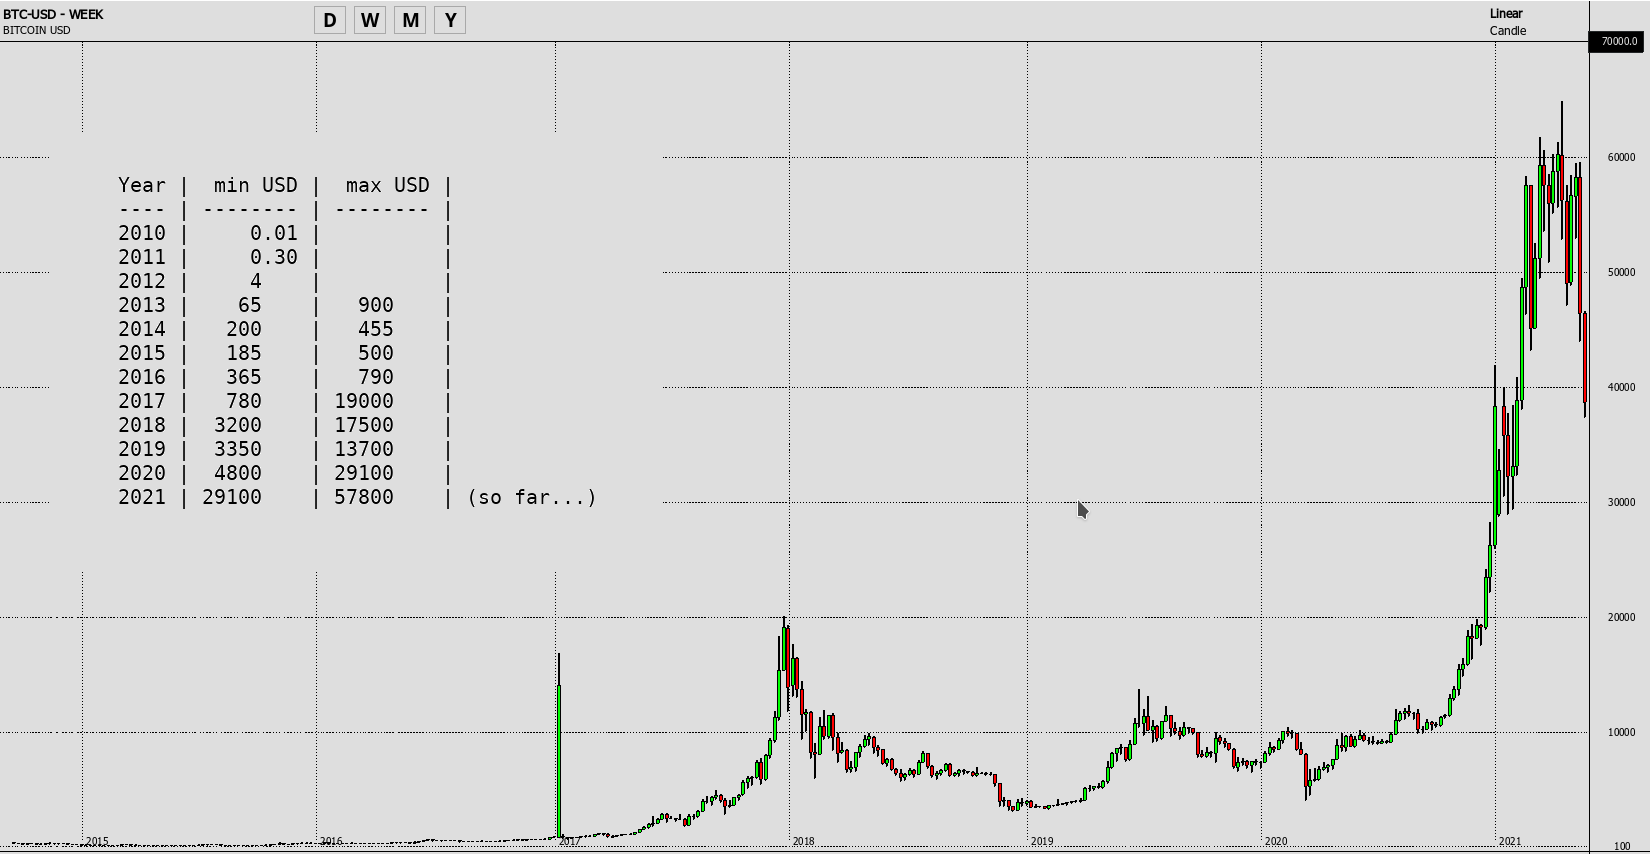
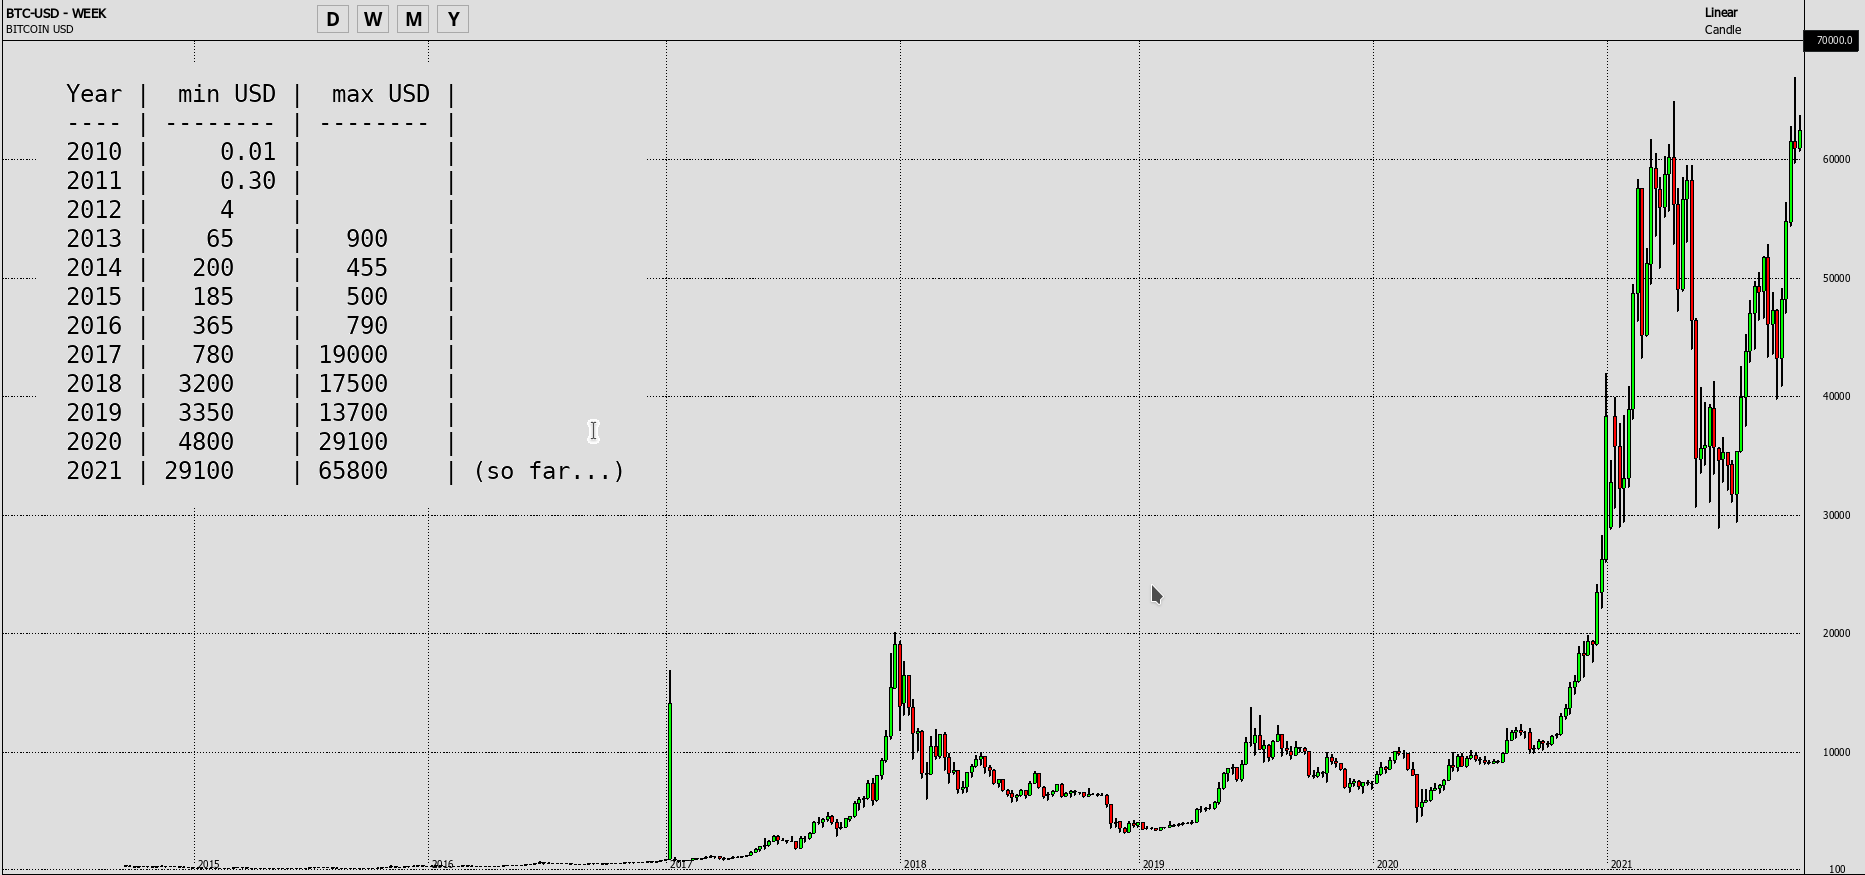
Bitcoin price and volatility update

diff --git a/blockchain/blockchain.html b/blockchain/blockchain.html
@@ -369,7 +369,13 @@
 							<a href="files/Bitcoin_Crashes_2.png"><img style="height: 300px;" src="files/Bitcoin_Crashes_2.png"/></a>
 							<p style="font-size: 40%;"><a href="https://howmuch.net/articles/bitcoin-all-major-crashes">Articulo HowMuch</a> y <a href="https://www.tradingview.com/chart/">gráfico en tiempo real</a> (elegir BTCUSD).</p>
 						</ul>
-						<p style="font-size: 40%;">Ver <a href="https://coinmarketcap.com/currencies/dogecoin/">caida de Dodgecoin</a> después de hablar Elon Musk en SNL <span style="font-size: 90%;">el 8 de Mayo 2021</span> <span style="font-size: 75%;">(<a href="https://en.wikipedia.org/wiki/Dogecoin">Dodgecoin</a> es un fork de <a href="https://en.wikipedia.org/wiki/Litecoin">Litecoin</a> que es un fork de Bitcoin)</span>. <br/>Luego la caida del Bitcoin después de que Tesla no lo acepte como forma de pago <span style="font-size: 75%;">(<a href="https://twitter.com/elonmusk/status/1392602041025843203">twit de Elon Musk</a> el 12 de Mayo 2021)</span> <br/>Y finalmente el impacto de las <a href="https://www.reuters.com/technology/chinese-financial-payment-bodies-barred-cryptocurrency-business-2021-05-18/">ultimas restricciones en China a las digital currencies</a> <span style="font-size: 75%;">(impuesto el 18 de Mayo 2021)</span>.</p>
+						<p style="font-size: 40%;">
+							Ver <a href="https://coinmarketcap.com/currencies/dogecoin/">caida de Dodgecoin</a> después de hablar Elon Musk en SNL <span style="font-size: 90%;">el 8 de Mayo 2021</span>
+							<span style="font-size: 75%;">(<a href="https://en.wikipedia.org/wiki/Dogecoin">Dodgecoin</a> es un fork de <a href="https://en.wikipedia.org/wiki/Litecoin">Litecoin</a> que es un fork de Bitcoin)</span>.
+							<br/>Luego la caida del Bitcoin después de que Tesla no lo acepte como forma de pago <span style="font-size: 75%;">(<a href="https://twitter.com/elonmusk/status/1392602041025843203">twit de Elon Musk</a> el 12 de Mayo 2021)</span>
+							<br/>El impacto de las <a href="https://www.reuters.com/technology/chinese-financial-payment-bodies-barred-cryptocurrency-business-2021-05-18/">ultimas restricciones en China a las digital currencies</a> <span style="font-size: 75%;">(impuesto el 18 de Mayo 2021)</span>
+							<br/>Y finalmente la nueva subida con la creación de <a href="https://www.proshares.com/funds/bito_performance_and_quote.html">ETF BITO</a> <span style="font-size: 75%;">(<a href="https://time.com/nextadvisor/investing/cryptocurrency/bitcoin-etf-approved/">ver articulo</a>)</span>.
+						</p>
 					</section>
 					<section>
 						<h2>Stable Coins</h2>
